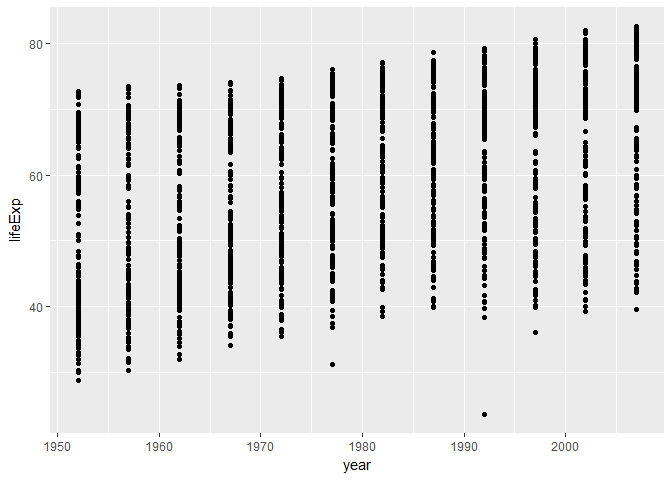
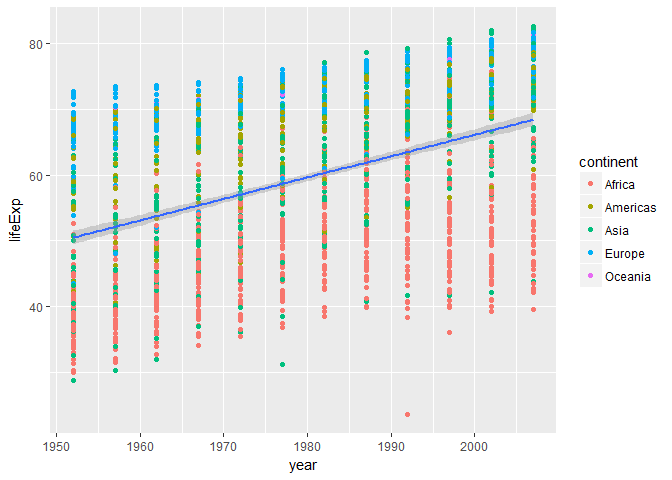
completed optional exercises

diff --git a/cm007/cm007.md b/cm007/cm007.md
@@ -13,7 +13,7 @@ library(tidyverse)
 
     ## Warning: package 'tidyverse' was built under R version 3.4.4
 
-    ## -- Attaching packages --------------------------------------------------------------------------------------- tidyverse 1.2.1 --
+    ## -- Attaching packages ---------------------------------------------------------------------------------------------------- tidyverse 1.2.1 --
 
     ## v ggplot2 2.2.1     v purrr   0.2.5
     ## v tibble  1.4.2     v dplyr   0.7.4
@@ -30,7 +30,7 @@ library(tidyverse)
 
     ## Warning: package 'forcats' was built under R version 3.4.4
 
-    ## -- Conflicts ------------------------------------------------------------------------------------------ tidyverse_conflicts() --
+    ## -- Conflicts ------------------------------------------------------------------------------------------------------- tidyverse_conflicts() --
     ## x dplyr::filter() masks stats::filter()
     ## x dplyr::lag()    masks stats::lag()
 
@@ -48,7 +48,7 @@ Shapes
 gvsl <- ggplot(gapminder, aes(gdpPercap, lifeExp)) + # gvsl is gdpPercap versus lifeExp
   scale_x_log10()
 
-gvsl + geom_point((aes(shape=continent)))
+gvsl + geom_point((aes(shape=continent)), alpha=0.2)
 ```
 
 ![](cm007_files/figure-markdown_github/unnamed-chunk-2-1.png)
@@ -290,10 +290,8 @@ gvsl + geom_density2d()
 
 ``` r
 gvsl + geom_point(alpha=0.1) +
-  geom_smooth() # adds a regression smoother
+  geom_smooth(method = "lm") # adds a regression smoother
 ```
-
-    ## `geom_smooth()` using method = 'gam'
 
 ![](cm007_files/figure-markdown_github/unnamed-chunk-23-1.png)
 
@@ -337,18 +335,67 @@ If you'd like some practice, give these exercises a try
 **Exercise 1**: Make a plot of `year` (x) vs `lifeExp` (y), with points coloured by continent. Then, to that same plot, fit a straight regression line to each continent, without the error bars. If you can, try piping the data frame into the `ggplot` function.
 
 ``` r
-ggplot(gapminder, aes(year, lifeExp)) +
-  geom_point()
+ggplot(gapminder, aes(x = year, y = lifeExp)) +
+  geom_point(aes(color = continent)) +
+  geom_smooth(method = "lm")
 ```
 
 ![](cm007_files/figure-markdown_github/unnamed-chunk-26-1.png)
 
+``` r
+continent_names <- c("Africa" ,"Americas", "Asia", "Europe", "Oceania")
+ggplot(subset(gapminder, continent %in% continent_names),
+       aes(x = year, y = lifeExp, color = continent)) + 
+  geom_point() + 
+  geom_smooth(method = "lm")
+```
+
+![](cm007_files/figure-markdown_github/unnamed-chunk-27-1.png)
+
 **Exercise 2**: Repeat Exercise 1, but switch the *regression line* and *geom\_point* layers. How is this plot different from that of Exercise 1?
+
+``` r
+continent_names <- c("Africa" ,"Americas", "Asia", "Europe", "Oceania")
+ggplot(subset(gapminder, continent %in% continent_names),
+       aes(x = year, y = lifeExp, color = continent)) + 
+    geom_smooth(method = "lm") +
+    geom_point()
+```
+
+![](cm007_files/figure-markdown_github/unnamed-chunk-28-1.png)
 
 **Exercise 3**: Omit the `geom_point` layer from either of the above two plots (it doesn't matter which). Does the line still show up, even though the data aren't shown? Why or why not?
 
+``` r
+continent_names <- c("Africa" ,"Americas", "Asia", "Europe", "Oceania")
+ggplot(subset(gapminder, continent %in% continent_names),
+       aes(x = year, y = lifeExp, color = continent)) + 
+    geom_smooth(method = "lm") 
+```
+
+![](cm007_files/figure-markdown_github/unnamed-chunk-29-1.png)
+
 **Exercise 4**: Make a plot of `year` (x) vs `lifeExp` (y), facetted by continent. Then, fit a smoother through the data for each continent, without the error bars. Choose a span that you feel is appropriate.
 
+``` r
+ggplot(gapminder, aes(x = year, y = lifeExp, color = continent)) +
+  geom_point() +
+  facet_wrap(~continent) +
+  geom_smooth()
+```
+
+    ## `geom_smooth()` using method = 'loess'
+
+![](cm007_files/figure-markdown_github/unnamed-chunk-30-1.png)
+
 **Exercise 5**: Plot the population over time (year) using lines, so that each country has its own line. Colour by `gdpPercap`. Add alpha transparency to your liking.
+
+``` r
+ggplot(gapminder, aes(x = year, y = log10(pop), color = gdpPercap), alpha=0.2) +
+  geom_line(aes(group = country))+
+  geom_point()
+```
+
+![](cm007_files/figure-markdown_github/unnamed-chunk-31-1.png)
 
 **Exercise 6**: Add points to the plot in Exercise 5.
